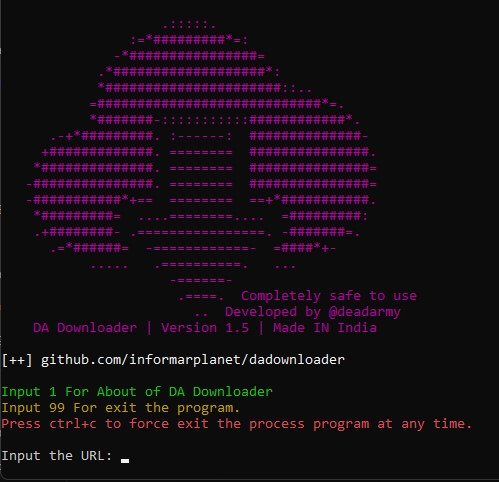
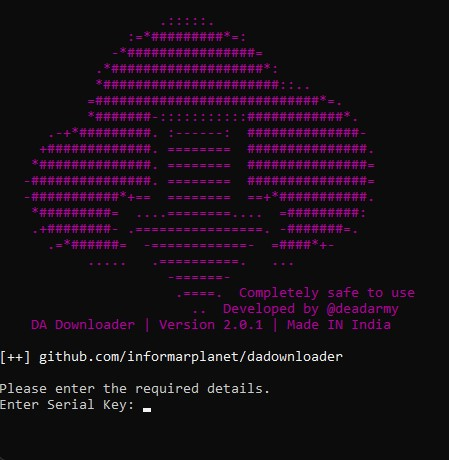
update version

Changed region(s): [[0.0, 0.0304, 0.9354, 1.0]]

diff --git a/README.md b/README.md
@@ -25,14 +25,14 @@ DA Downloader is a versatile and powerful software for downloading content from 
 ## Installation
 
 ### Windows
-1. Download the installer from the [Windows Download Link](https://forms.gle/296LZ4RJevMWjPzp8).
+1. Download the installer from the [Windows Download Link](https://da.newstorial.com).
 2. Run the installer and follow the on-screen instructions.
 4. Launch the software.
 5. Paste the link you want to download (e.g., YouTube, Instagram, Torrent, Facebook, Any Downloadable Link etc.).
 6. Select "Download" options.
 
 ### Linux
-1. Download from the [Linux Download Link](https://forms.gle/296LZ4RJevMWjPzp8).
+1. Download from the [Linux Download Link](https://da.newstorial.com).
 2. Run the application:
    ```bash
    ./DA Downloader
